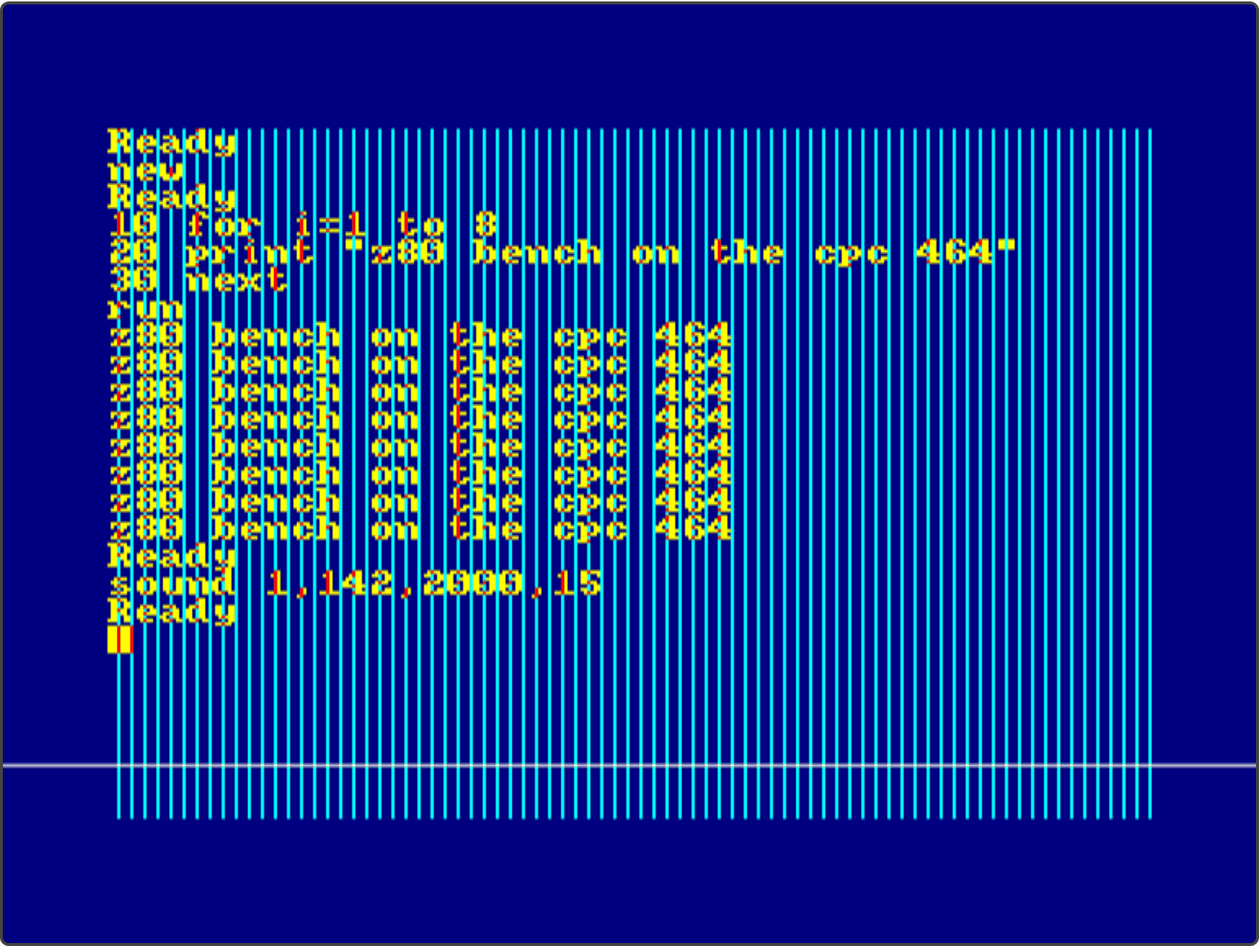
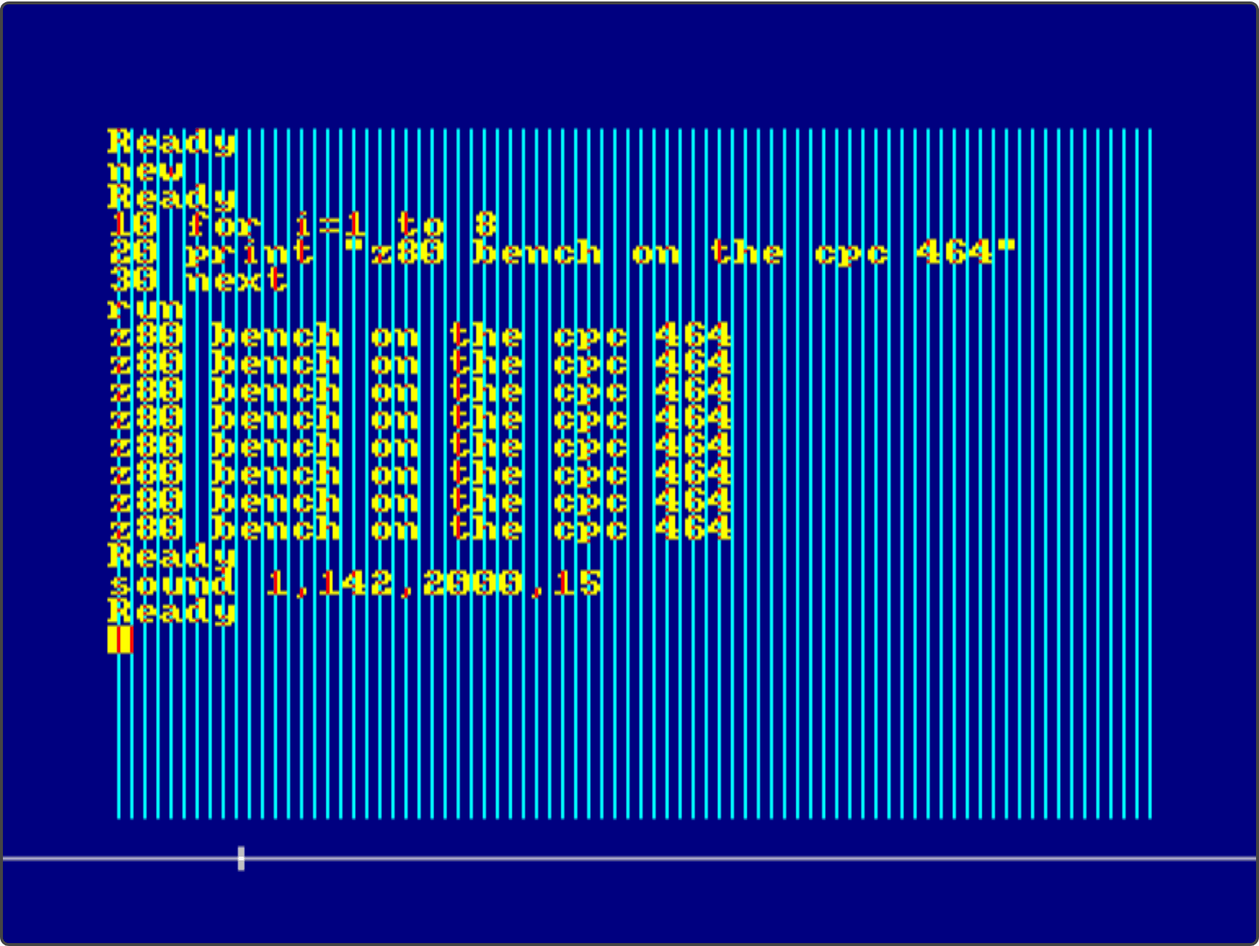
CPC 464: tapes from WAV recordings and Save .wav, in the app and the documentation; CPC and ZX80 app files say they are UTF-8
Claude-Session: https://claude.ai/code/session_01J5P2eVnFbGQdtbwaSPz7RY

Changed region(s): [[0.0, 0.8978, 1.0, 0.9288], [0.0, 0.805, 1.0, 0.8359]]

diff --git a/cpc/app/index.html b/cpc/app/index.html
@@ -1,3 +1,4 @@
+<meta charset="utf-8">
 <title>CPC 464 Bench</title>
 <meta name="claude:viewport-fit-sides" content="cover">
 <link rel="preconnect" href="https://fonts.googleapis.com">
@@ -392,11 +393,11 @@ table.mem td.b.mw { box-shadow: inset 0 0 0 1.5px var(--warn); }
           <span class="osbkeys mono" id="cpKeysDown"></span>
         </div>
         <div class="row cptape" id="cpTape">
-          <button id="cpTapeIns" type="button" title="A CDT (or TZX) tape file. It is played as the signal it describes, into the cassette input.">Insert tape (.cdt)…</button><input type="file" id="cpTapeFile" accept=".cdt,.tzx" hidden>
+          <button id="cpTapeIns" type="button" title="A CDT (or TZX) tape file, or a WAV recording of a cassette. It is played as the signal it describes, into the cassette input.">Insert tape (.cdt, .wav)…</button><input type="file" id="cpTapeFile" accept=".cdt,.tzx,.wav" hidden>
           <button id="cpTapePlay" type="button" title="Press PLAY on the cassette. The tape moves while PLAY is down and the computer has the motor on." disabled>▶ Play</button>
           <button id="cpTapeRew" type="button" title="Rewind to the start of the tape" disabled>⏮ Rewind</button>
           <button id="cpTapeRec" type="button" title="Press REC and PLAY on a blank tape: what the computer writes to the cassette (SAVE) is recorded while it has the motor on. Press again to stop; the recording is then the tape in the deck, ready to load back or save as a file.">● Record</button>
-          <button id="cpTapeSave" type="button" title="Save the tape in the deck as a CDT file" disabled>Save tape (.cdt)</button>
+          <button id="cpTapeSave" type="button" title="Save the tape in the deck as a CDT file" disabled>Save tape (.cdt)</button><button id="cpTapeWav" type="button" title="Save the tape's signal as a WAV file (44.1 kHz, 8-bit mono), to play into a real CPC's cassette input" disabled>Save .wav</button>
           <label class="inline" for="cpTapeBlk" title="Wind the tape to the start of a block">Block <select id="cpTapeBlk" disabled><option>no tape</option></select></label>
           <label class="inline" for="cpTapeInstant" title="Records the firmware reads (BASIC programs, RUN&quot;&quot;, and the files of most games) go straight from the tape file into memory, with no waiting. Programs with their own loaders still load from the tape's signal, so keep PLAY down."><input type="checkbox" id="cpTapeInstant" checked> Instant loading</label>
           <label class="inline" for="cpTapeFast" title="Run at full speed while the tape is playing and the motor is on, then back to real time."><input type="checkbox" id="cpTapeFast" checked> Fast loading</label>
@@ -1842,6 +1843,90 @@ CPCTape.fromPulses = (pulses, note = 'Recorded on the Z80 Bench Amstrad CPC 464 
   flush();
   return any ? new Uint8Array(out) : null;
 };
+// Tapes from WAV files: a recording of a real cassette (or of a tape made by an emulator) is turned into the pulses it
+// carries, and those into a CDT file, so it plays exactly like one, with the firmware's records found for instant
+// loading. The samples (8, 16, 24 or 32-bit PCM, or float; the channels averaged) are freed of any DC drift by taking
+// away their average over 3 ms; the level then flips only when the signal swings past a threshold that follows its own
+// loudness (a quarter of the recent peak), and never below a floor set from the file itself: twice the hiss (the peak
+// level of the quietest tenth of its 5 ms stretches), at least 3% and at most 40% of the signal (the loudest tenth), so
+// hiss in the gaps is ignored. Each edge is timed at the zero crossing before the flip, between samples, and the time between edges
+// becomes a pulse in CPC clocks.
+CPCTape.readWav = bytes => {
+  const b = bytes, dv = new DataView(b.buffer, b.byteOffset, b.byteLength), tag = i => String.fromCharCode(b[i], b[i + 1], b[i + 2], b[i + 3]);
+  if (b.length < 12 || tag(0) !== 'RIFF' || tag(8) !== 'WAVE') throw new Error('Not a WAV file (no RIFF WAVE header)');
+  let fmt = null, data = null;
+  for (let i = 12; i + 8 <= b.length;) {
+    const id = tag(i), len = dv.getUint32(i + 4, true), body = i + 8;
+    if (id === 'fmt ') { let f = dv.getUint16(body, true); const bits = dv.getUint16(body + 14, true); if (f === 0xFFFE && len >= 26) f = dv.getUint16(body + 24, true); fmt = { f, ch: dv.getUint16(body + 2, true), rate: dv.getUint32(body + 4, true), align: dv.getUint16(body + 12, true), bits }; }
+    else if (id === 'data') data = [body, Math.min(len, b.length - body)];
+    i = body + len + (len & 1);
+  }
+  if (!fmt || !data) throw new Error('The WAV file has no ' + (fmt ? 'sound data' : 'format chunk'));
+  const { f, ch, rate, align, bits } = fmt, by = bits >> 3;
+  if (!(f === 1 && [8, 16, 24, 32].includes(bits) || f === 3 && (bits === 32 || bits === 64)) || !ch || !rate || align < ch * by) throw new Error(`WAV format not supported (format ${f}, ${bits} bits): use PCM or float`);
+  const n = Math.floor(data[1] / align), x = new Float32Array(n);
+  for (let k = 0; k < n; k++) {
+    let sum = 0;
+    for (let c = 0; c < ch; c++) {
+      const o = data[0] + k * align + c * by;
+      sum += f === 3 ? (bits === 32 ? dv.getFloat32(o, true) : dv.getFloat64(o, true)) : bits === 8 ? (b[o] - 128) / 128 : bits === 16 ? dv.getInt16(o, true) / 32768 : bits === 24 ? ((b[o] | b[o + 1] << 8 | b[o + 2] << 16) << 8 >> 8) / 8388608 : dv.getInt32(o, true) / 2147483648;
+    }
+    x[k] = sum / ch;
+  }
+  return { rate, x, bits, ch };
+};
+CPCTape.wavPulses = (x, rate) => {
+  const n = x.length, W = Math.max(3, Math.round(rate * 0.003)), y = new Float32Array(n);
+  let acc = 0; const half = W >> 1;                                        // centred moving average
+  for (let k = 0; k < Math.min(n, half); k++) acc += x[k];
+  for (let k = 0; k < n; k++) {
+    const add = k + half, sub = k - half - 1; if (add < n) acc += x[add]; if (sub >= 0) acc -= x[sub];
+    const cnt = Math.min(n - 1, k + half) - Math.max(0, k - half) + 1; y[k] = x[k] - acc / cnt;
+  }
+  // the noise floor: the peak of each 5 ms window; the quietest tenth of them is the hiss, the loudest tenth the signal
+  const Wn = Math.max(8, Math.round(rate * 0.005)), wp = [];
+  for (let k = 0; k < n; k += Wn) { let m = 0; for (let j = k; j < Math.min(n, k + Wn); j++) m = Math.max(m, Math.abs(y[j])); wp.push(m); }
+  wp.sort((p, q) => p - q);
+  const sig = wp[Math.floor(wp.length * 0.9)] || 0, hiss = wp[Math.floor(wp.length * 0.1)] || 0;
+  if (!sig) return [];
+  const floor = Math.min(sig * 0.4, Math.max(sig * 0.03, hiss * 2)), decay = Math.exp(-1 / (rate * 0.02)), pulses = [], clk = 4000000 / rate;
+  let env = 0, state = 0, cross = 0, last = 0, first = true;
+  for (let k = 1; k < n; k++) {
+    const v = y[k], a = Math.abs(v); env = Math.max(a, env * decay);
+    if ((v >= 0) !== (y[k - 1] >= 0)) cross = k - 1 + y[k - 1] / (y[k - 1] - v);   // the zero crossing, between samples
+    const h = Math.max(floor, env * 0.25);
+    if (state <= 0 && v > h || state >= 0 && v < -h) {
+      const want = v > 0 ? 1 : -1;
+      if (state !== want) { if (state !== 0) { pulses.push(Math.max(1, Math.round((cross - last) * clk))); } else if (first) { pulses.push(Math.max(1, Math.round(cross * clk))); first = false; } last = cross; state = want; }
+    }
+  }
+  return pulses;
+};
+CPCTape.fromWav = (bytes, name) => {
+  const w = CPCTape.readWav(bytes), pulses = CPCTape.wavPulses(w.x, w.rate);
+  const t = CPCTape.fromPulses(pulses, `Converted from ${name || 'a WAV file'} (${w.rate} Hz, ${w.bits}-bit, ${w.ch === 1 ? 'mono' : w.ch + ' channels'}) by Z80 Bench`);
+  if (!t) throw new Error('No tape signal was found in the WAV file');
+  return t;
+};
+// a tape's signal as a WAV file (mono, 8-bit by default), for testing and for playing into a real CPC
+CPCTape.toWav = (tape, rate = 44100, opt = {}) => {
+  let total = 0; for (let i = 0; i < tape.n; i++) total += tape.dur[i];
+  const n = Math.ceil(total / 4000000 * rate) + 1, bits = opt.bits || 8, by = bits >> 3, out = new Uint8Array(44 + n * by), dv = new DataView(out.buffer);
+  const put = (o, s) => { for (let i = 0; i < s.length; i++) out[o + i] = s.charCodeAt(i); };
+  put(0, 'RIFF'); dv.setUint32(4, 36 + n * by, true); put(8, 'WAVEfmt '); dv.setUint32(16, 16, true); dv.setUint16(20, 1, true); dv.setUint16(22, 1, true);
+  dv.setUint32(24, rate, true); dv.setUint32(28, rate * by, true); dv.setUint16(32, by, true); dv.setUint16(34, bits, true); put(36, 'data'); dv.setUint32(40, n * by, true);
+  const amp = opt.amp === undefined ? 0.8 : opt.amp, rc = opt.smooth ? Math.exp(-1 / opt.smooth) : 0, dc = opt.dc || 0, hiss = opt.noise || 0, inv = opt.invert ? -1 : 1;
+  let seg = 0, left = tape.n ? tape.dur[0] : Infinity, t = 0, v = 0, seed = 12345;
+  for (let k = 0; k < n; k++) {
+    const at = (k / rate) * 4000000; while (seg < tape.n && at - t >= left) { t += left; seg++; left = seg < tape.n ? tape.dur[seg] : Infinity; }
+    const target = seg < tape.n ? (tape.lvl[seg] ? amp : -amp) * inv : 0;
+    v = rc ? v * rc + target * (1 - rc) : target;
+    seed = (seed * 1103515245 + 12345) & 0x7FFFFFFF;
+    const s = Math.max(-1, Math.min(1, v + dc + hiss * (seed / 0x7FFFFFFF * 2 - 1)));
+    if (bits === 8) out[44 + k] = Math.round(s * 127 + 128); else dv.setInt16(44 + k * 2, Math.round(s * 32767), true);
+  }
+  return out;
+};
 class CPCMachine {
   constructor() {
     this.rom = new Uint8Array(0x8000).fill(0xFF); this.hasLo = false; this.hasHi = false;
@@ -2295,7 +2380,12 @@ class CPCMachine {
     return true;
   }
   // ---- cassette ----
-  insertTape(bytes) { this.tape = new CPCTape(bytes); this.tapePlay = false; this.tapeSeek(0); return this.tape; }
+  // a CDT (TZX) file, or a WAV recording, which is converted to a CDT first (tape.cdt then holds the file made)
+  insertTape(bytes, name) {
+    const wav = bytes.length > 12 && bytes[0] === 0x52 && bytes[1] === 0x49 && bytes[2] === 0x46 && bytes[3] === 0x46;
+    const cdt = wav ? CPCTape.fromWav(bytes, name) : bytes;
+    this.tape = new CPCTape(cdt); this.tape.cdt = cdt; this.tape.fromWav = wav; this.tapePlay = false; this.tapeSeek(0); return this.tape;
+  }
   ejectTape() { this.tape = null; this.tapePlay = false; this.tapeLevel = 0; }
   tapeSeek(seg) { const tp = this.tape; if (!tp) return; this.tapeIdx = Math.min(seg, tp.n); this.tapeRem = tp.dur[this.tapeIdx] || 0; this.tapeLevel = tp.lvl[this.tapeIdx] || 0; this.tapePos = 0; for (let q = 0; q < this.tapeIdx; q++) this.tapePos += tp.dur[q]; }
   motorOn() { return !!(this.ppiCout() & 0x10); }
@@ -3853,7 +3943,7 @@ const cpTime = c => { const s = Math.floor(c / CPC.CPU_HZ); return Math.floor(s 
 function cpTapeShow() {
   const tp = cpc.tape, has = !!tp;
   for (const id of ['cpTapePlay', 'cpTapeRew', 'cpTapeBlk']) $(id).disabled = !has || !!cpc.rec;
-  $('cpTapeSave').disabled = !has || !cpTapeBytes || !!cpc.rec; $('cpTapeRec').textContent = cpc.rec ? '■ Stop recording' : '● Record'; $('cpTapeRec').classList.toggle('armed', !!cpc.rec);
+  $('cpTapeSave').disabled = !has || !cpTapeBytes || !!cpc.rec; $('cpTapeWav').disabled = !has || !!cpc.rec; $('cpTapeRec').textContent = cpc.rec ? '■ Stop recording' : '● Record'; $('cpTapeRec').classList.toggle('armed', !!cpc.rec);
   const sel = $('cpTapeBlk'); sel.innerHTML = '';
   if (!has) { sel.add(new Option('no tape')); $('cpTapeInfo').textContent = cpc.rec ? '● REC' : ''; cpTapeSig = ''; return; }
   let c = 0, q = 0;
@@ -3874,9 +3964,10 @@ $('cpTapeFile').onchange = async () => {
   const f = $('cpTapeFile').files[0]; $('cpTapeFile').value = ''; if (!f) return;
   try {
     if (cpc.rec) cpc.recStop();
-    const bytes = new Uint8Array(await f.arrayBuffer()); const tp = cpc.insertTape(bytes); cpTapeName = f.name; cpTapeBytes = bytes;
+    const bytes = new Uint8Array(await f.arrayBuffer()); const tp = cpc.insertTape(bytes, f.name); cpTapeName = tp.fromWav ? f.name.replace(/\.wav$/i, '') + '.cdt' : f.name; cpTapeBytes = tp.cdt;
+    const found = tp.blocks.filter(b => b.data).length;
     $('cpMsg').className = 'msg ok';
-    $('cpMsg').textContent = `Tape inserted: ${f.name}, ${tp.blocks.length} blocks, ${cpTime(tp.total)} long. Type RUN"" and press RETURN, then press Play here and any key on the CPC.` + (tp.notes.length ? ' Notes on the tape: ' + tp.notes.join('; ') : '');
+    $('cpMsg').textContent = (tp.fromWav ? `WAV recording read: ${f.name}, ${cpTime(tp.total)} of tape, ${found ? found + ' firmware record' + (found === 1 ? '' : 's') + ' found (instant loading can use them)' : 'no firmware records found (instant loading cannot help; a custom loader may still read it)'}. Save tape keeps it as a CDT file.` : `Tape inserted: ${f.name}, ${tp.blocks.length} blocks, ${cpTime(tp.total)} long.`) + ` Type RUN"" and press RETURN, then press Play here and any key on the CPC.` + (tp.notes.length ? ' Notes on the tape: ' + tp.notes.join('; ') : '');
   } catch (e) { $('cpMsg').className = 'msg err'; $('cpMsg').textContent = 'Could not read the tape: ' + e.message; }
   cpTapeShow();
 };
@@ -3889,6 +3980,7 @@ $('cpTapeRec').onclick = () => {
   $('cpMsg').className = 'msg ok'; $('cpMsg').textContent = `Recorded ${cpTime(tp.total)} of tape (${bytes.length.toLocaleString()} bytes as a CDT file). It is now the tape in the deck, rewound: LOAD it back, or press Save tape to keep it.`;
   cpTapeShow();
 };
+$('cpTapeWav').onclick = () => { if (!cpc.tape) return; const w = CPCTape.toWav(cpc.tape, 44100), name = (cpTapeName || 'tape').replace(/\.(cdt|tzx|wav)$/i, '') + '.wav'; cpSaved(cpDownload(name, w, 'audio/wav'), f => `Tape saved as ${f}: ${cpTime(cpc.tape.total)} of sound (${(w.length / 1048576).toFixed(1)} MB), to play into a real CPC.`); };
 $('cpTapeSave').onclick = () => { if (!cpTapeBytes) return; const name = /\.(cdt|tzx)$/i.test(cpTapeName) ? cpTapeName : cpTapeName + '.cdt'; cpSaved(cpDownload(name, cpTapeBytes.slice(), 'application/octet-stream'), f => `Tape saved as ${f}: ${cpTapeBytes.length.toLocaleString()} bytes.`); };
 $('cpTapeInstant').onchange = () => { cpc.instant = $('cpTapeInstant').checked; try { localStorage.setItem('cpc.instant', cpc.instant ? '1' : '0'); } catch (e) {} };
 try { if (localStorage.getItem('cpc.instant') === '0') $('cpTapeInstant').checked = false; } catch (e) {}

diff --git a/cpc/docs/index.html b/cpc/docs/index.html
@@ -16,7 +16,7 @@
     <header class="site" style="margin-top:20px">
       <p class="prompt">&gt; LIST</p>
       <h1>Amstrad CPC 464 documentation</h1>
-      <p class="lead">How to use the emulator, and how the machine it models is put together. The numbers in each list match the numbered markers on the screenshot above it. The emulator is work in progress: tapes are read from CDT files only, not from WAV recordings.</p>
+      <p class="lead">How to use the emulator, and how the machine it models is put together. The numbers in each list match the numbered markers on the screenshot above it.</p>
     </header>
 
     <a class="button" href="../app/">Open the emulator</a>
@@ -102,11 +102,11 @@
       <li><b>Dump RAM (.bin):</b> saves all 64K of RAM, <code>0000h</code>–<code>FFFFh</code>, as a raw file. Beside it, <b>RAM listing (.txt)</b> saves the registers, the state of the gate array, the 6845, the 8255 and the sound chip, any faults, and the RAM as a hex dump.</li>
       <li><b>Gate array:</b> the chip fitted at IC116, a 40010 or a 40007. The two behave alike here; their pins are arranged differently, which matters for the fault menus.</li>
       <li><b>Sound:</b> through the built-in speaker, as from the stereo socket, or off; see <a href="#sound">Sound</a>.</li>
-      <li><b>Insert tape (.cdt)…:</b> puts a CDT or TZX tape file in the deck.</li>
+      <li><b>Insert tape (.cdt, .wav)…:</b> puts a CDT or TZX tape file, or a WAV recording of a cassette, in the deck.</li>
       <li><b>Play</b> (<b>Stop</b> while it is down): the cassette's PLAY key.</li>
       <li><b>Rewind:</b> back to the start of the tape.</li>
       <li><b>Record</b> (<b>Stop recording</b> while recording): REC and PLAY on a blank tape.</li>
-      <li><b>Save tape (.cdt):</b> saves the tape in the deck as a file, such as a recording you made.</li>
+      <li><b>Save tape (.cdt):</b> saves the tape in the deck as a file, such as a recording you made. Beside it, <b>Save .wav</b> saves the tape's sound, to play into a real CPC.</li>
       <li><b>Block:</b> the blocks on the tape, with where each starts; pick one to wind the tape there.</li>
       <li><b>Instant loading:</b> records the firmware reads come straight from the tape file, with no waiting; see <a href="#tape">The cassette</a>.</li>
       <li><b>Fast loading:</b> runs at full speed while the tape moves, and back to real time when the motor stops.</li>
@@ -130,10 +130,10 @@
     <p>A fault that stops CCLK (no 16 MHz clock, or the gate array's CCLK pin or line held or disconnected) stops the sound chip too, so the sound stops.</p>
 
     <h3 id="tape">The cassette</h3>
-    <p>The deck plays CDT files, the tape format used for CPC tapes (the TZX format of the Spectrum, with the same blocks). The file is turned into the signal it holds, and the computer reads that signal from the cassette input bit by bit, as it would from a real tape. So both the firmware's own loader and the custom loaders of games, such as Speedlock, work.</p>
+    <p>The deck plays CDT files, the tape format used for CPC tapes (the TZX format of the Spectrum, with the same blocks), and WAV recordings of real cassettes (see <a href="#wav">below</a>). The file is turned into the signal it holds, and the computer reads that signal from the cassette input bit by bit, as it would from a real tape. So both the firmware's own loader and the custom loaders of games, such as Speedlock, work.</p>
     <p><b>To load a program:</b></p>
     <ol>
-      <li>Press <b>Insert tape (.cdt)…</b> and choose the file.</li>
+      <li>Press <b>Insert tape (.cdt, .wav)…</b> and choose the file.</li>
       <li>Type <code>RUN""</code> (or <code>LOAD""</code>) and press RETURN. The CPC says <b>Press PLAY then any key:</b>.</li>
       <li>Press <b>Play</b> under the picture, then any key on the CPC.</li>
     </ol>
@@ -146,6 +146,8 @@
       <li>When it says <b>Ready</b>, press <b>Stop recording</b>.</li>
     </ol>
     <p>What the computer wrote while the motor was on becomes a new tape in the deck, rewound, so you can <code>LOAD</code> it back straight away; <b>Save tape (.cdt)</b> keeps it as a file you can load later or in another emulator. A recording is kept as the pulses it holds, not decoded, so anything a program writes to tape is kept as it was written.</p>
+    <p id="wav"><b>WAV recordings.</b> A cassette recorded into a computer as a WAV file can go in the deck too. The recording is turned into the pulses it carries and then into a CDT file, which the deck plays as it plays any other; <b>Save tape (.cdt)</b> keeps that file. Any firmware records in it are found, so instant loading works for them, and the message says how many were found; a game's own loader reads the signal as usual. The WAV file can be 8, 16, 24 or 32-bit, or floating point, at any sample rate, mono or stereo (the channels are mixed). 44.1 kHz or more is best for the faster custom loaders. Record at a good level, without the recorder's automatic level control if it can be switched off.</p>
+    <p><b>Save .wav</b> does the opposite: it saves the tape in the deck, whatever it came from, as its sound (44.1 kHz, 8-bit mono). Play it from a computer or phone into a real CPC's cassette input (on a CPC 464, whose deck is built in, through a cassette adapter in the deck) at full volume, and type <code>RUN""</code> on the CPC first.</p>
 
     <h3 id="toolbar">Running and stepping</h3>
     <figure class="fig">
@@ -383,6 +385,7 @@
       <li><b>Reading:</b> port B bit 7 is the signal from the tape. Loaders time the gaps between its edges with counting loops, which is why the wait states have to be right for a tape to load.</li>
     </ul>
     <p>A CDT file describes the signal as blocks: leaders, sync pulses and data bits with their lengths, plain pulses, and pauses, all timed in 3.5 MHz T-states; the emulator scales them to the CPC's 4 MHz clock. A pause starts with 1 ms at the opposite level, which ends the last pulse, then stays low. A recording is written as blocks of pulses (TZX block 13h), with a pause block (20h) for each gap longer than about 19 ms.</p>
+    <p>A WAV file is turned into pulses like this: the channels are mixed; any DC drift is removed by taking away the signal's average over 3 ms; the level then flips only when the signal swings past a threshold that follows its loudness (a quarter of the recent peak), and never below a floor set from the file itself: twice the hiss (the peak level of its quietest 5 ms stretches), so hiss in the gaps between files is ignored; each edge is timed at the zero crossing just before the flip, between samples; and the time between edges, in CPC clocks, becomes a pulse. The pulses are written as a recording is. Which way up the recording is doesn't matter, as the loaders time the gaps between edges.</p>
     <p>The firmware stores a file as records. Each record is a leader, a 0 sync bit, a sync byte (2Ch for the 64-byte header that names the file, 16h for data), then the data in 256-byte segments, each followed by its CRC (CCITT, polynomial 1021h, starting from FFFFh, inverted, high byte first), then a short trailer. The firmware reads every record with one routine, CAS READ (jump block <code>BCA1h</code>: HL the address, DE the length, A the sync byte; it returns carry set, or carry clear with A = 2 for a CRC error). Instant loading catches the Z80 as it is about to run that routine in the lower ROM, finds the next record on the tape with that sync byte, checks each segment's CRC, writes the bytes to RAM, winds the tape past the record and returns as the routine would. Records held as plain pulses, as in a recording, are decoded from the pulse lengths first, and used only if every CRC checks.</p>
 
     <h3 id="hw-ppi">8255 and keyboard</h3>
@@ -434,9 +437,8 @@
     </table></div>
     <p>The display's address reaches the same pins through inputs 2 (column) and 3 (row): the 6845's MA1, MA0, MA3, MA2, MA5, MA4, MA7 and MA6 for the rows of RAM pins A0–A7, and MA8, CCLK, RA0, MA9, RA2, RA1, MA13 and MA12 for the columns. These follow the circuit diagram. They have not been checked against a real board.</p>
 
-    <h3 id="hw-limits">What is not emulated yet</h3>
+    <h3 id="hw-limits">What is not emulated</h3>
     <ul class="features">
-      <li><b>Cassette:</b> tapes as WAV sound files; only CDT and TZX files are read.</li>
       <li><b>Printer, joysticks and expansion ROMs or disc drives</b></li>
     </ul>
 

diff --git a/cpc/index.html b/cpc/index.html
@@ -16,7 +16,7 @@
     <header class="site" style="margin-top:20px">
       <p class="prompt">&gt; RUN</p>
       <h1>Amstrad CPC 464</h1>
-      <p class="lead">An emulator of Amstrad's 1984 home computer, built on <a href="../z80-bench/">Z80 Bench</a> and modelled from the CPC 464 circuit diagram. A CPC is a Z80 whose every bus cycle is paced by one custom chip, the gate array, which also makes the picture together with a 6845. The emulator runs the real firmware and Locomotive BASIC, and shows what each chip is doing on every clock. It is work in progress: sound and the cassette are still to come.</p>
+      <p class="lead">An emulator of Amstrad's 1984 home computer, built on <a href="../z80-bench/">Z80 Bench</a> and modelled from the CPC 464 circuit diagram. A CPC is a Z80 whose every bus cycle is paced by one custom chip, the gate array, which also makes the picture together with a 6845. The emulator runs the real firmware and Locomotive BASIC, and shows what each chip is doing on every clock.</p>
     </header>
 
     <a class="button" href="app/">Open the emulator</a>
@@ -35,15 +35,13 @@
       <li><b>Clock and reset faults:</b> take away the 16 MHz clock and the whole machine stops; take away the Z80's clock, or hold READY low, and the processor stands still while the picture goes on; take away the 6845's clock and the sync and the interrupts go; hold the RESET line low and every chip on it stays in reset</li>
       <li><b>More live chips:</b> the four 74LS153 RAM address selectors, the 8255 and the sound chip have live pins and fault menus, wired as on the circuit diagram. A selector fault can scramble the CPU's memory or only the picture; an 8255 or sound chip fault reaches the keyboard, the cassette or the sound</li>
       <li><b>Sound:</b> the AY-3-8912's three tone channels, noise and envelope, played in real time through the built-in speaker or as from the stereo socket. It runs on the gate array's 1 MHz clock, so a fault that stops that clock stops the sound</li>
-      <li><b>Cassette:</b> insert a CDT tape file and press Play. The tape is played as a real signal into the cassette input, so the firmware's loader and the custom loaders of games such as Speedlock work. Instant loading puts anything the firmware loads straight into memory; fast loading, rewind and a list of the blocks on the tape. Record what <code>SAVE</code> writes, load it back, and save it as a CDT file</li>
+      <li><b>Cassette:</b> insert a CDT tape file, or a WAV recording of a real cassette, and press Play. The tape is played as a real signal into the cassette input, so the firmware's loader and the custom loaders of games such as Speedlock work. Instant loading puts anything the firmware loads straight into memory; fast loading, rewind and a list of the blocks on the tape. Record what <code>SAVE</code> writes, load it back, and save it as a CDT file, or as a WAV file to play into a real CPC</li>
       <li><b>Keyboard:</b> type on your keyboard (characters are translated to the CPC key that gives them) or click the on-screen CPC keyboard</li>
       <li><b>Memory bitmap:</b> every bit of the ROM and the RAM as a pixel, with the screen memory and the firmware's area tinted</li>
       <li><b>Debugging:</b> Z80 Bench's tools, including bus timing, disassembler, breakpoints and stepping, plus a panel showing the memory map, the gate array, the 6845's counters, the monitor's beam and the 8255</li>
       <li><b>Real time:</b> 4 MHz, or full speed</li>
     </ul>
 
-    <h2>Coming next</h2>
-    <p>Tapes from WAV recordings, and the other emulators getting the same chip faults.</p>
 
     <h2>Source</h2>
     <a class="button secondary" href="https://github.com/fdimer/z80-bench/tree/cpc">View on GitHub (cpc branch)</a>

diff --git a/zx80/app/index.html b/zx80/app/index.html
@@ -1,3 +1,4 @@
+<meta charset="utf-8">
 <title>ZX80 / ZX81 Bench</title>
 <meta name="claude:viewport-fit-sides" content="cover">
 <link rel="preconnect" href="https://fonts.googleapis.com">

diff --git a/CLAUDE.md b/CLAUDE.md
@@ -44,7 +44,7 @@ links keep working.
   SimpleFunLetters (`fun-letters/`).
 - **Emulators:** personal (repo only under `fdimer`) and an emulator. Currently:
   Z80 Bench (`z80-bench/`), 6502 Bench (`6502-bench/`), Osborne Executive
-  (`osborne-executive/`), Sinclair ZX80/ZX81 (`zx80/`), MSX Sony HB-55P (`msx/`), Amstrad CPC 464 (`cpc/`, `cpc` branch of `fdimer/z80-bench`; work in progress (no WAV tapes yet); documentation page `cpc/docs/`, screenshots from `_tools/docs-shots/cpc.js` with `CPC_ROMS` set to the folder holding `OS_464.ROM` and `BASIC_1.0.ROM`), Commodore PET 2001-N (`pet/`, built on 6502 Bench, `pet` branch of `fdimer/6502-bench`). ZX81 ULA Test Bench (`zx81-ula/`, `zx81-ULA` branch of `fdimer/z80-bench`): a ZX81 run from the gate-level Ferranti ULA, for testing; its app is one generated file, `ula/zx81-ula.html` in that branch (built by `node ula/build_page.js`), copied to `zx81-ula/app/index.html`; it has no documentation page yet; its project page and the app's footer must keep the Ferranti archive's non-commercial terms and sources. Z80 Bench and the
+  (`osborne-executive/`), Sinclair ZX80/ZX81 (`zx80/`), MSX Sony HB-55P (`msx/`), Amstrad CPC 464 (`cpc/`, `cpc` branch of `fdimer/z80-bench`; documentation page `cpc/docs/`, screenshots from `_tools/docs-shots/cpc.js` with `CPC_ROMS` set to the folder holding `OS_464.ROM` and `BASIC_1.0.ROM`), Commodore PET 2001-N (`pet/`, built on 6502 Bench, `pet` branch of `fdimer/6502-bench`). ZX81 ULA Test Bench (`zx81-ula/`, `zx81-ULA` branch of `fdimer/z80-bench`): a ZX81 run from the gate-level Ferranti ULA, for testing; its app is one generated file, `ula/zx81-ula.html` in that branch (built by `node ula/build_page.js`), copied to `zx81-ula/app/index.html`; it has no documentation page yet; its project page and the app's footer must keep the Ferranti archive's non-commercial terms and sources. Z80 Bench and the
   emulators built on it are never part of aWkward sn@ail.
 - **Miscellaneous:** any other personal project (repo only under `fdimer`).
   Currently: Font Developer (`font-developer/`), Three-Cell FPGA (`three-cell-fpga/`, repo `fdimer/ThreeCellFPGA`; its app is the repo's `index.html` copied to `three-cell-fpga/app/index.html`, and `three-cell-fpga/guide/` is the repo's `docs/FPGAs-for-beginners.md` rendered as a page.)
